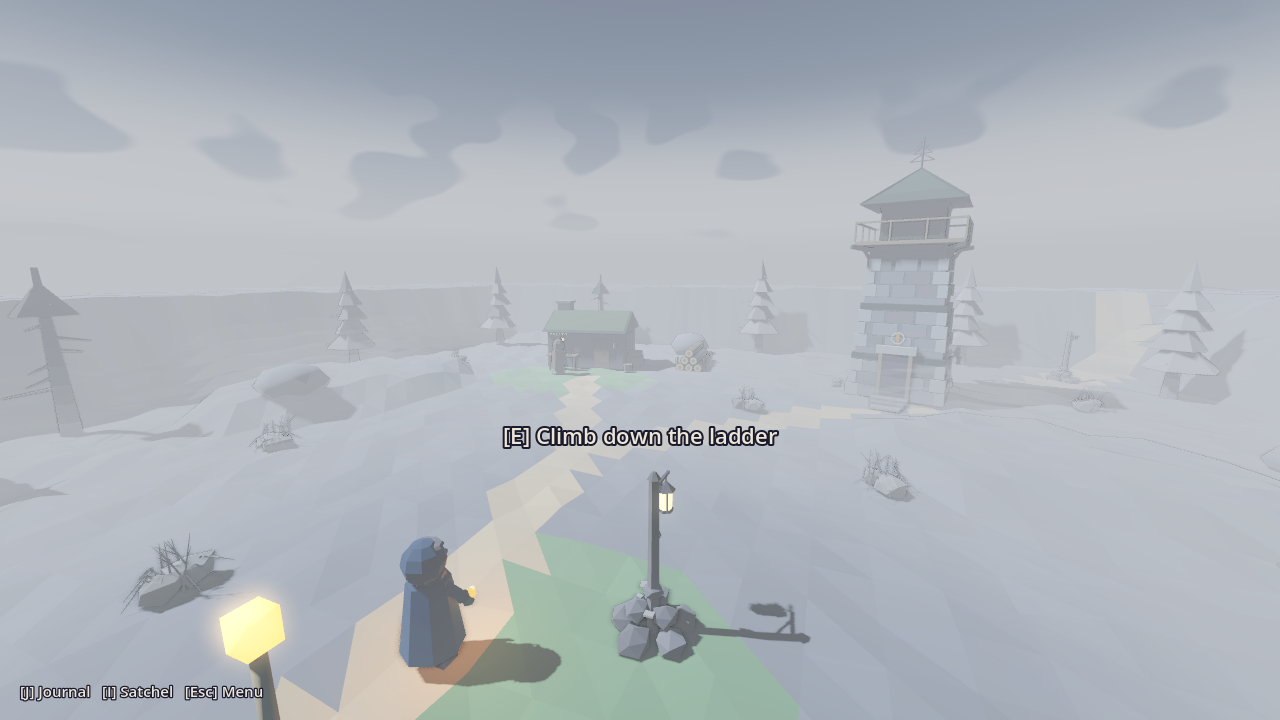
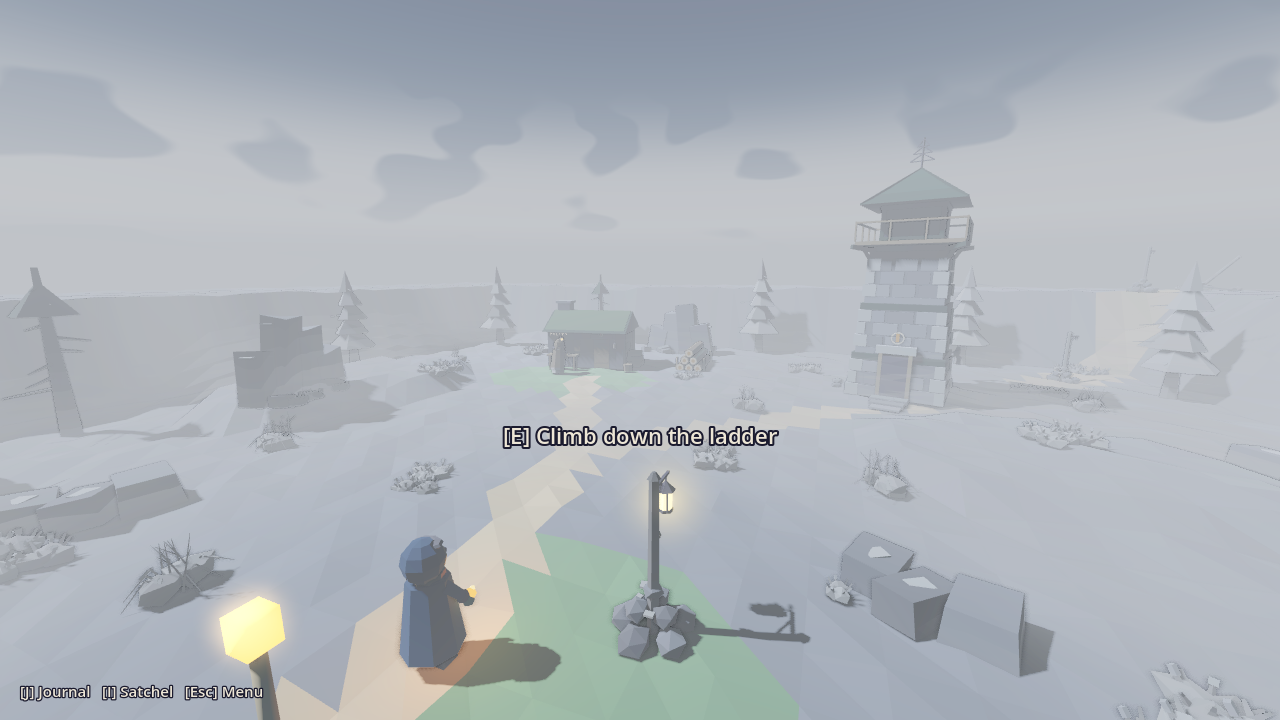
docs: devlog day 26, lore (the ridge dressed, the old road's tumbled waymark), roadmap, tech notes, screenshots and checkpoints for the ridge, dressed
Claude-Session: https://claude.ai/code/session_01ExWExxw8vr1JVrepqden1t

diff --git a/docs/ROADMAP.md b/docs/ROADMAP.md
@@ -188,6 +188,16 @@ with a meaningful burn choice → consequences visible in the village.
       waymark's lantern moved (its pool closes, Hob notices), or refuse; a hung lantern lights the stair.
       **Ottie Swale's cap** to Hob. Checkpoint `thornwold_ridge`.
 
+- [x] [A] **The ridge, dressed** (Day 26): the Lamp **chisels** at the bench (CharacterRig `chisel`:
+      tap, tap, a rest, the hood turning to listen); **Ottie's cap on the cold hut's seat** by the boots
+      (`collier_hut_cold_cap`, by `thornwold_hob_has_cap`); every lit waymark gets a **lantern halo**
+      (a soft camera-facing glow, no light spent) so the stair-foot lantern and the ridge's read at a
+      distance; the ridge top dressed from Blender — **stone outcrops** (tall and low), **silvered
+      heather** in clumps, and the old Keepers' road's waymarks going on **north-east up the spine**
+      (bare, bare, **tumbled**) — the procedural rocks gone. Engine: **conditional ground paint**
+      (`if` on paint zones; the ground mesh recolours live) — the fourth waymark's moss goes grey when
+      its lantern is taken. Character lineup `--pose=`/`--turn=`.
+
 ### Art track (owner request, 2026-09-26)
 The owner wants the look upgraded: characters and settings read as generic greybox.
 **Cadence rule:** until the Vertical Slice looks shippable, at least every other session
@@ -197,15 +207,7 @@ palette colors, strong silhouettes); every asset from a re-runnable `tools/blend
 each .glb < 5 MB.
 
 ### Next up
-1. [A] **The ridge, dressed** (art, **due Day 26** — every other session): the Lamp gets a **`chisel`
-   idle** at the bench (CharacterRig style, like Hob's `rake`: tap, tap, a pause, the hood turning);
-   a **cap-on-the-seat variant** of `collier_hut_cold` shown with `if: flag:thornwold_hob_has_cap`;
-   the stair-foot waymark's hung lantern doesn't read at a distance in screenshots (check its
-   rotation toward the clearing / glow); ridge-top dressing from Blender instead of procedural rocks
-   (stone outcrops, silvered heather tufts, a line of bare waymarks along the old Keepers' road
-   north-east into the fog); the woods' fourth waymark keeps its moss paint when its lantern is moved
-   (paint is static — a conditional paint or a greyed-moss decal). Before/after screenshots.
-2. [C] **Thornwold's burning** (next content, **due by Day 28**): what the Ridge Light burns —
+1. [C] **Thornwold's burning** (next content, **due by Day 28**): what the Ridge Light burns —
    "something somebody remembers", and *not* the Lamp's own (it says so). Candidates in play:
    **Hob's memory of the four colliers** (Ottie's cap on the seat by the boots — burning it frees
    Hob to come in by daylight but the cold hut becomes nobody's), **Pell's/Hob's count-stick** (Pell
@@ -215,32 +217,32 @@ each .glb < 5 MB.
    (Oda). Pay off Hob's daylight promise and the Lamp's coal: with the beacon lit the lanterns can go
    out without stranding anyone (a `thornwold_stair_light=sliver` coal is shorter — make it show).
    Bram, Pell and the Lamp react; checkpoint. Keep the four colliers north along the ridge **open**.
-3. [S] **Title screen**: New game / Continue (latest slot) / Load / Settings / Quit; then
+2. [S] **Title screen**: New game / Continue (latest slot) / Load / Settings / Quit; then
    "Return to title" on the Act I end card and in the pause menu. Reuse the pause menu's
    Settings/Controls pages (move the page builders into a shared `SettingsPages` control).
-4. [P] **Color grading pass on a Vulkan machine** — sandbox screenshots (Compatibility
+3. [P] **Color grading pass on a Vulkan machine** — sandbox screenshots (Compatibility
    renderer) are washed out; verify palette reads correctly in Forward+ (incl. beacon glow,
    the Day 12 glow/contrast/saturation grading, SSAO strength, the water colours).
    Needs the owner to run the game locally and report back.
-5. [S] **Settings follow-ups**: gamepad rebinding and stick deadzone; a fullscreen/window
+4. [S] **Settings follow-ups**: gamepad rebinding and stick deadzone; a fullscreen/window
    and vsync toggle; a subtitle/dialogue-speed option with the accessibility item; prompts
    that show pad glyphs when a pad was used last.
-6. [S] **The Greying v2** (fold pieces into later sessions): fog pockets/banks on
+5. [S] **The Greying v2** (fold pieces into later sessions): fog pockets/banks on
    Saltmarrow and Shingle Point too (offshore, leaning back after the burn); the ember light
    pushing fog back in a small radius around the player; paths that fade in thick fog
    (LORE: "a road forgets where it goes" — now Thornwold's theme, see item 3); a Hushed NPC
    drifting in a pocket; audio cue (muffling low-pass + heartbeat-ish ember crackle) with the
    audio item; colourblind-safe meter check with the accessibility item. Consider a story flag
    when the player is first turned back (an NPC remarks on it).
-7. [S] Audio hooks (buses exist since Day 19 — play through them by name), footsteps, ambient loop per region, dialogue "voice blips"
+6. [S] Audio hooks (buses exist since Day 19 — play through them by name), footsteps, ambient loop per region, dialogue "voice blips"
     per NPC (data field). Placeholder sounds generated procedurally.
-8. [A] Saltmarrow dressing follow-ups: paint contrast in the Compatibility renderer (walkway
+7. [A] Saltmarrow dressing follow-ups: paint contrast in the Compatibility renderer (walkway
    vs. slate); Saltmarrow's two greyed net-lofts by the boardwalk gate could take the broken
    variant (or a half-mended one after the burn); Aldous still stands — a bench by the Wrens'
    steps (LORE says he sits on one) wants a seated idle like Hesk's; a lit-window variant for
    nights once day/night exists. (Hob's raking idle landed Day 22 — the seated idle is the
    same kind of CharacterRig style.)
-9. [S] Interaction polish: camera framing during dialogue; fade the
+8. [S] Interaction polish: camera framing during dialogue; fade the
    player model when the camera is pushed in close behind them (a wall at their back).
    (Facing while talking landed Day 14; the key hint hides in dialogue since Day 15.)
 
@@ -290,10 +292,12 @@ each .glb < 5 MB.
   (validator keeps spawns clear, but saved positions aren't checked).
 - Settings save per change since Day 23, but a slider mid-drag when the OS closes the
   window loses that drag (saved on `drag_ended`). Harmless.
-- Last content session: Day 21 (into the woods, part one); next content due by Day 25.
-- Last art session: Day 24 (the way up); next art due by Day 26 (cadence: every other session).
-  Good picks: the ridge region's ground and dressing if part two makes one; else Saltmarrow
-  follow-ups (Aldous's bench + seated idle).
+- Last content session: Day 25 (the ridge and the Lamp); next content due by Day 29
+  (Thornwold's burning is wanted sooner — Day 27).
+- Last art session: Day 26 (the ridge, dressed); next art due by Day 28 (cadence: every other
+  session) — but Thornwold's burning is due then too: if the burn lands Day 27, Day 28 is art
+  (good picks: the lit Ridge Light seen from the woods after the burn, Saltmarrow follow-ups —
+  Aldous's bench + seated idle; the halo could go on Saltmarrow's lantern posts too).
 - Prop `smoke` is CPU particles (pauses with the tree under the menu): fine at a few vents;
   if a region ever wants dozens, use GPUParticles3D on Forward+ and keep CPU for Compatibility.
 - Thornwold's log buildings use one box collider each (the porch of the tally-house is
@@ -353,3 +357,12 @@ each .glb < 5 MB.
   where the ground is above the water; a leg standing exactly at the tide line gets none.
 - The ember signs are separate props positioned by sharing the house's origin; if the Wrens'
   house ever moves, move both signs with it (`test_wrens_and_lofts.gd` checks they match).
+- Conditional ground paint recolours the whole ground mesh (regenerated in GDScript, a few ms
+  for the woods) when its set changes — fine at story beats; don't drive it from anything per
+  frame. The colour snaps while lantern pools fade over 4 s (usually off-screen: the woods'
+  fourth lantern is moved from the ridge).
+- Lantern halos are depth-tested quads that ignore distance fog on purpose (a lantern reads through
+  it); a halo behind a Greying fog layer still shows through the layer (the layers don't write
+  depth). Reads as "light in the fog", which is the intent — re-judge in Forward+.
+- The tumbled waymark at the far end of the ridge's road is mostly lost in the fog from the
+  plateau (by design, but it barely reads in screenshots).

diff --git a/docs/TECH.md b/docs/TECH.md
@@ -37,10 +37,10 @@ $GODOT --headless --path . -s res://tools/debug/terrain_map.gd [-- <region>]  # 
 .tools/bin/blender-py tools/blender/build_dressing.py [dock wreck …]  # rebuild the dressing kit (assets/models/dressing/)
 .tools/bin/blender-py tools/blender/build_village.py [house_stilt house_wren net_loft_broken …]  # village buildings (same kit dir)
 .tools/bin/blender-py tools/blender/build_thornwold.py [bramble bunkhouse tally_house saw_pit charcoal_clamp pine_dark …]  # Thornwold kit (same kit dir)
-.tools/bin/blender-py tools/blender/build_woods.py [collier_hut (+ collier_hut_cold) sack_cart waymark trail_stake greyed_brush pine_grey]  # Thornwold woods kit (same kit dir)
-.tools/bin/blender-py tools/blender/build_ridge.py [thornwold_beacon (+ _lit) keeper_lodge ridge_steps keeper_ladder waymark_cap sack_dropped]  # the ridge and the way up (same kit dir)
+.tools/bin/blender-py tools/blender/build_woods.py [collier_hut (+ collier_hut_cold, collier_hut_cold_cap) sack_cart waymark trail_stake greyed_brush pine_grey]  # Thornwold woods kit (same kit dir)
+.tools/bin/blender-py tools/blender/build_ridge.py [thornwold_beacon (+ _lit) keeper_lodge ridge_steps keeper_ladder waymark_cap sack_dropped ridge_outcrops (+ _low) heather_silver waymark_tumbled]  # the ridge and the way up (same kit dir)
 xvfb-run -a $GODOT --rendering-driver opengl3 --path . res://scenes/debug/character_lineup.tscn \
-    -- --screenshot=/abs/out.png [--closeup] [--mood=gulls_head] [--only=hob,lamp]  # art review: every character side by side (+ unplaced models)
+    -- --screenshot=/abs/out.png [--closeup] [--mood=gulls_head] [--only=hob,lamp] [--pose=0.16] [--turn=60]  # art review: every character side by side (+ unplaced models); --pose freezes the idles at t s, --turn turns the models
 xvfb-run -a $GODOT --rendering-driver opengl3 --path . res://scenes/debug/prop_lineup.tscn \
     -- --screenshot=/abs/out.png [--only=dock,wreck] [--camera=…]  # art review: the dressing kit
 ```
@@ -224,6 +224,12 @@ Colors are palette names from `PropFactory.PALETTE` (= GAME_DESIGN palette) or `
   (-0.8, 3.25, -0.5), `charcoal_clamp` crown at y 0.95, radius 0.65 (four vents at
   0.4 + k·90° from +X, Godot z = -Blender y). `test_thornwold_kit.gd` checks vents sit on
   their model. Keep it to a few vents per region (12–16 particles each).
+- `"halo": [x, y, z]`, `"halo_size": 1.8` (model props, Day 26) — a soft camera-facing glow at
+  a lantern's glass (`LanternHalo` + `assets/shaders/lantern_halo.gdshader`: alpha-blended,
+  unshaded, fog-disabled, a slow flame flicker, faint within ~2.5 m of the camera and full from
+  ~9 m) so lanterns read across a clearing or through the fog **without a real light** (the
+  light budget stands: ember, ferry lantern, beacon). Every `waymark_lit` carries one at
+  `[0, 1.76, 0.5]` (its glass centre); `test_ridge_dressed.gd` checks that.
 
 ### Arrival events & act ends (Day 13)
 - **Region `events`** happen on arriving in a region: after `main.load_region`, the first
@@ -352,7 +358,7 @@ characters.
   ],
   "colors": {"ground": "moss", "shore": "driftwood", "shore_height": 0.35,
              "seabed": "slate", "cliff": "slate", "cliff_slope": 0.9},
-  "paint": [{"rect"|"ellipse"|"path": ..., "width": 2, "color": "driftwood"}],  // first wins
+  "paint": [{"rect"|"ellipse"|"path": ..., "width": 2, "color": "driftwood", "if"?: cond}],  // first wins
   "piers": [{"rect": [x0,z0,x1,z1], "deck": 0.275}],  // walkable decks over water (absolute y)
   "note": "free text"
 }
@@ -360,6 +366,13 @@ characters.
 Each feature's influence is 1 inside and smoothsteps to 0 over `falloff` metres; a small
 falloff makes cliffs (coloured `cliff` above `cliff_slope` rise/m, unwalkable above ~0.84).
 Triangle colour order: paint → cliff → seabed (below water) → shore band → ground.
+**Conditional paint (Day 26):** a paint zone may carry an `if`. `TerrainField.paint` holds the
+zones in effect (unconditional ones until `select_paint(world)` runs; `all_paint` is the data);
+`Region` selects before building the ground and, in `refresh_conditional`, re-selects and
+`TerrainBuilder.recolor`s the ground **mesh only** (collider and heights never change) when the
+set changed. Since the first matching zone wins, put a conditional override **before** the zone
+it covers (the woods' grey patch under the fourth waymark sits first, over the clearing's green).
+`land` can't be conditional (the validator says so) — ground shape is fixed per region.
 **With `ground`, every position's y is an offset above the ground** (spawns, NPCs, pickups,
 objects, exits, props unless `"snap": false`). The collider is the same grid with sea
 vertices raised `WALL_HEIGHT` above the water, so the coastline is the edge of the playable
@@ -379,7 +392,10 @@ with `--camera=`.
 ### NPC / Item / Quest
 - NPC: `id, name, color, dialogue, model?, idle?, faces_player?, faction?, bio?` — must be placed at least
   once (several placements only if each has an `if`; see *Arrival events*). `model` = character scene (see *Characters*); without it the NPC is a primitive
-  figure in its `color`. `idle` = `breathe` (default) | `mend` | `rake`. While talking, an NPC's body
+  figure in its `color`. `idle` = `breathe` (default) | `mend` | `rake` | `chisel` (Day 26: the
+  Lamp — bent over the bench, two taps of the left hand per `CHISEL_PERIOD` 3.4 s then a rest,
+  the head turning aside to listen about once in three beats; `chisel_tap`/`chisel_listen` are
+  static so tests can read the beat). While talking, an NPC's body
   eases round to face the player and back to its placed `rotation_y` after (the Wakebearer
   turns to it too); `"faces_player": false` opts out (Hesk keeps mending).
 - `data/game.json` also takes `player_model` (the Wakebearer character scene) and `act_ends`.
@@ -470,7 +486,13 @@ over 7.5 m, upper 1.6 m over 6 m, the upper placed at `rotation_y` 180 with its 
 under each placed flight rises the same, so **change the script, the path and the test
 together**. `keeper_ladder` (feet at the origin, leaning back toward Godot -Z, ≈ 3 m up) and
 `keeper_ladder_fallen` (flat along X), `waymark_cap` (the bare waymark with a collier's cap on
-its hook), `sack_dropped` (split, coal spilled toward -X). Note `bp.prism` creates its object through the data API and does **not** make it
+its hook), `sack_dropped` (split, coal spilled toward -X). **The ridge, dressed (Day 26):**
+`ridge_outcrop` (≈ 3.4 × 2.4 × 1.6 m: slabs on edge along +X, heather in the lee on -Y;
+collider ≈ [3.2, 2.4, 1.4]) and `ridge_outcrop_low` (a broken shelf ≈ 0.7 m high), `heather_silver`
+(a ~1.6 m patch of five silvered tufts; no collider), `waymark_tumbled` (the cairn spilled toward
+-X, the post leaning 35° the same way, its arm in the heather). `collier_hut_cold_cap` = the cold
+hut with Ottie's cap on the seat by the boots (same footprint; shown by flag in place of
+`collier_hut_cold`). Note `bp.prism` creates its object through the data API and does **not** make it
 active — use its return value (e.g. to rotate it), never `bpy.context.active_object`.
 
 ## Characters
@@ -589,6 +611,11 @@ WorldState.to_dict()}`. Bump `SaveSystem.SAVE_VERSION` on breaking changes and a
 - `tests/test_terrain.gd` — TerrainField heights, mesh/triangle agreement, ramp/cliff/sea
   reachability, colour rules, mesh faces up + shore-wall collider, ground-relative placement,
   validator ground checks.
+- `tests/test_ridge_dressed.gd` — Day 26: the dressing kit loads (< 5 MB), the Lamp's chisel
+  beat (two taps, a rest, the hood turning) on the real model, the cap hut exactly one of two by
+  flag, halos on every lit waymark, conditional paint (field selection, the woods' fourth waymark
+  greying, the ground mesh recoloured), validator paint/halo checks, ridge outcrops clear of the
+  paths and the old road's waymarks going north-east up out of reach.
 - `tests/test_characters.gd` — character models follow the rig contract; the rig poses and
   returns to rest; missing models fall back; validator catches bad `model`/`idle`.
 - `tests/test_dialogue.gd`, `tests/test_world_state.gd`, `tests/test_journal_model.gd` — unit

diff --git a/docs/DEVLOG.md b/docs/DEVLOG.md
@@ -2,6 +2,72 @@
 
 Newest entries first. Each entry: what was done, decisions & why, problems, next steps.
 
+## 2026-10-06 21:00 UTC — Day 26: The ridge, dressed (art track)
+
+**Did**
+- Tooling: `tools/setup.sh` worked first try (Godot 4.7.2 + bpy 5.2.2). Checkout was a detached
+  HEAD again; fetched `origin/main` first (`82df173`, Day 25's head), then `checkout -B main`.
+  Baseline green (173 tests).
+- **Art (due today; last art Day 24):** ROADMAP *Next up* #1, all five parts:
+  - **The Lamp chisels.** New CharacterRig style `chisel` (the Lamp's `idle`): bent over the bench,
+    the left hand lifts and strikes twice per 3.4 s beat, then rests; about once in three beats the
+    head turns aside and holds, **as if listening**, then goes back to the work. The pole hand barely
+    moves.
+  - **Ottie's cap on the seat.** `collier_hut_cold_cap` (build_woods.py): the cold hut with the felt
+    cap crown-up on the log seat beside the boots, brim toward the door. It replaces
+    `collier_hut_cold` by `if: flag:thornwold_hob_has_cap` — Day 25's gift now shows in the clearing.
+  - **Lanterns read at a distance.** The stair-foot lantern was a 10 cm emissive cylinder. Rather
+    than spend a light (the budget is ember, ferry lantern, beacon), a new prop field **`halo`**
+    puts a soft camera-facing glow at the glass (`LanternHalo` + `lantern_halo.gdshader`: alpha
+    blended, fog-disabled, a slow flicker, faint close up and full from ~9 m). Every `waymark_lit`
+    in the woods and on the ridge has one. Its rotation was fine.
+  - **The ridge top from Blender** (build_ridge.py): **`ridge_outcrop`** (grey slabs heaved up on
+    edge, lichen on top, heather in the lee) and **`ridge_outcrop_low`** (a broken shelf) replace the
+    four procedural rocks (six placed, kept clear of the trodden paths); **`heather_silver`** patches
+    (14, in clumps); and the **old Keepers' road** goes on north-east up the spine: a second bare
+    `waymark` at the edge of seeing, then **`waymark_tumbled`** (cairn spilled, post leaning 35°,
+    arm lying in the heather), both out of reach. The road's paint runs on to them.
+  - **Conditional ground paint.** Paint zones take an `if`; `TerrainField.select_paint` picks the zones
+    in effect and `Region` recolours the ground mesh (mesh only) when the set changes. The woods'
+    fourth waymark sits inside the clearing's big green zone, so the fix is a **grey patch listed
+    first** (`if: flag:thornwold_fourth_lantern_taken`) rather than an `if` on its own moss.
+- Debug: the character lineup takes `--pose=<s>` (freeze every idle at that moment) and
+  `--turn=<deg>`, to see the beats of an idle side-on.
+- **Tests:** `test_ridge_dressed.gd` (8): kit loads/sizes; the chisel beat and the real model's
+  pose (bent, hand lifts, hood turns); exactly one cold hut per cap state; halos on every lit waymark;
+  conditional paint (fixture + the woods' fourth waymark) and the mesh recolour; validator paint
+  `if`/`land` `if`/halo checks; ridge outcrops off the paths and the road's waymarks going
+  north-east up out of reach. 181 tests + smoke + launch pass. Checkpoints `thornwold_woods` and
+  `thornwold_ridge` re-shot.
+
+Screenshots (`docs/screenshots/2026-10-06-*.png`): `ridge-dressed` (vs. Day 25's
+`docs/checkpoints` shot, now re-shot — compare the procedural rocks in git history), `ridge-road`
+(the old road's waymarks up the spine), `ridge-dressing-lineup`, `lamp-chisel-tap` vs
+`lamp-chisel-listen`, `cap-on-seat`, `stair-lantern-halo` (vs. Day 25's `stair-lit`),
+`fourth-lit` vs `fourth-taken` (the moss gone grey and the lantern's pool closed).
+
+**Decisions**
+- **A halo, not a light.** Real lights stay budgeted; a fog-ignoring billboard says "lantern in the
+  fog" in both renderers at the cost of one quad. It fades out near the camera so it never fogs the
+  view of the glass up close.
+- **Paint conditions recolour, never reshape.** Only `paint` may be conditional (`land` is rejected
+  by the validator) so the collider, reachability and the ember map never depend on flags.
+- **The far waymark is tumbled**, not lit or bare: new canon that the old road hasn't been tended in
+  years, which points at the four colliers' road without saying who stopped walking it (LORE hook).
+- **The listening pause is unexplained on purpose** (LORE): it may pay off with the ladder or the four.
+
+**Problems / notes**
+- Halos show through Greying fog layers (the layers don't write depth). That reads as light in the
+  fog, which is the point; re-judge in Forward+ with the colour pass.
+- The hood's turn (0.5 rad) is hard to see from most angles. A bigger turn would read better;
+  check the hood against the cape for clipping before raising it.
+- The tumbled waymark is mostly lost in the fog from the plateau.
+
+**Next run should**
+1. **Content: Thornwold's burning** (ROADMAP *Next up* #1, due by Day 28). The cap on the seat is
+   now visible, so a burn of Hob's memory of the four has a thing in the world to change.
+2. Then art on Day 28 (Ridge Light lit from the woods; Saltmarrow's bench) or the title screen.
+
 ## 2026-10-06 09:00 UTC — Day 25: The ridge and the Lamp (content)
 
 **Did**

diff --git a/docs/LORE.md b/docs/LORE.md
@@ -413,6 +413,15 @@ charcoal-burners and a Tidewright lumber camp. Theme: trust and misdirection.
   - **Ottie's cap goes to Hob**, who knows it by the crooked cord Ottie sewed on himself, and sets
     it on the cold hut's seat **beside the boots** — the cold hut was Ottie's ("He'll want his boots").
     Ottie had promised to bring a lantern down for Hob's hut too.
+- **The ridge, dressed (look, Day 26):** the plateau's grey stone breaks through the turf in slabs
+  heaved up on edge along the spine; the heather has gone the colour of the fog. **The old Keepers'
+  road's waymarks go on north-east up the spine past the first bare one: another bare, then one
+  nobody has tended in years — its cairn spilled, its post leaning, its arm lying in the heather.**
+  (Hook for the four colliers' road: the Keepers stopped walking it long before the Snuffing? Or the
+  Greying took the tending out of whoever did. Not said.) The Lamp chisels at the bench in twos —
+  tap, tap — and **stops now and then with its hood turned, as if listening** (for the ladder? for
+  the four? not said). Where the fourth waymark's lantern is taken to the stair, **the moss under it
+  goes grey**.
 
 ### 3. Glasswater Fen (planned — Alpha)
 A marsh of reed-houses and mirror-still pools where the Unmoored gather. Theme: the right to

diff --git a/docs/CHECKPOINTS.md b/docs/CHECKPOINTS.md
@@ -1,7 +1,7 @@
 # Emberwake — Story checkpoints
 
 Where the game is up to, one screenshot per story checkpoint. Generated by
-`tools/checkpoints.sh` from `data/scenarios.json` (at commit `aa72197`, 2026-10-06 09:53 UTC).
+`tools/checkpoints.sh` from `data/scenarios.json` (at commit `82df173`, 2026-10-06 21:54 UTC).
 
 Play from any of them: `godot --path . -- --scenario=<id>`, or in a debug build open the
 pause menu (Esc) → **Chapter select (dev)**. `--scenario=list` prints them all.
